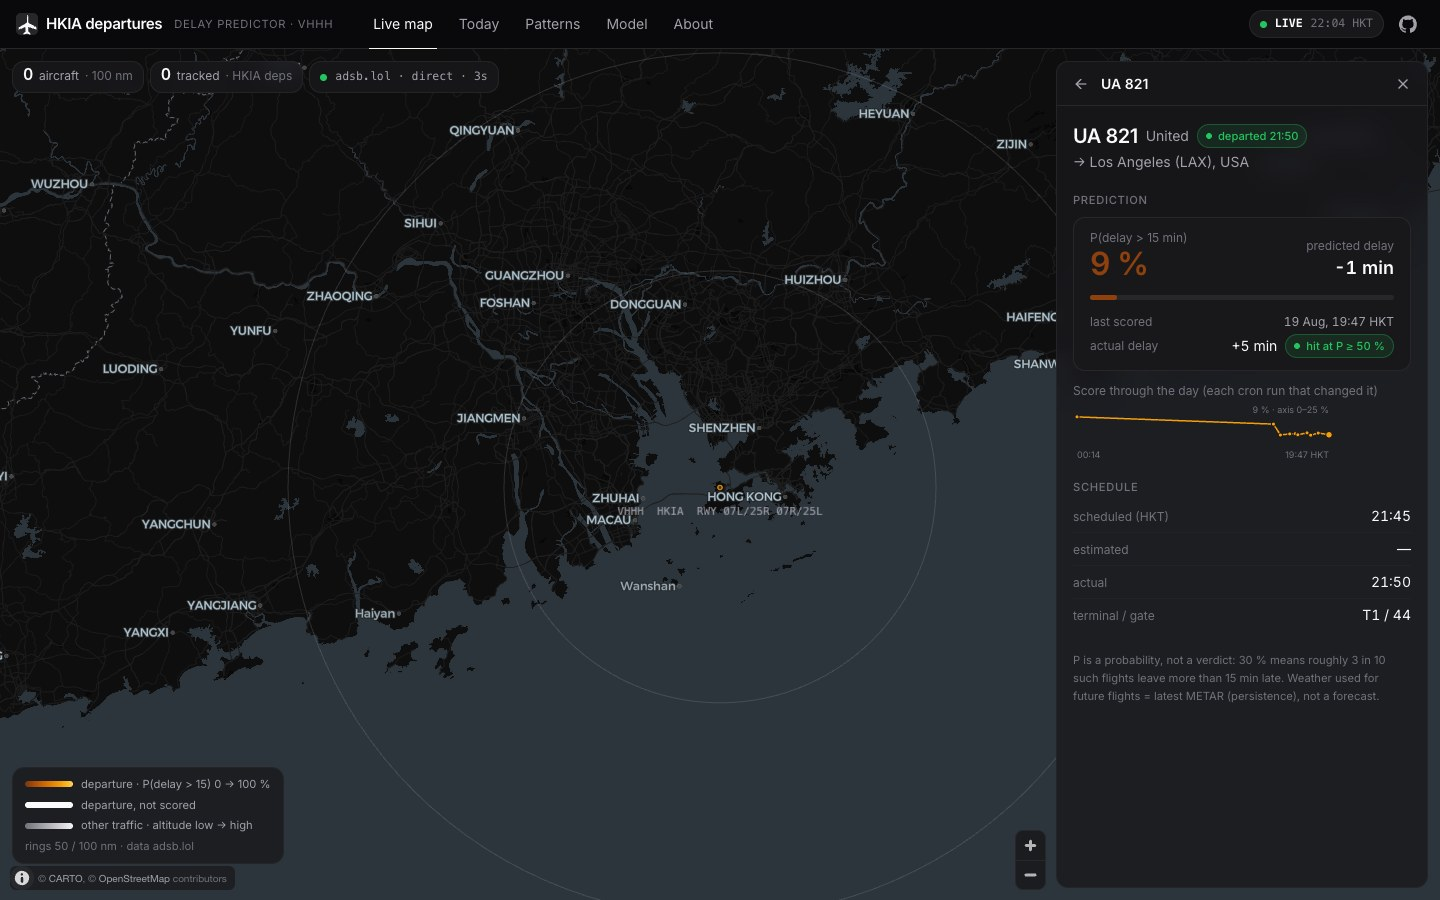
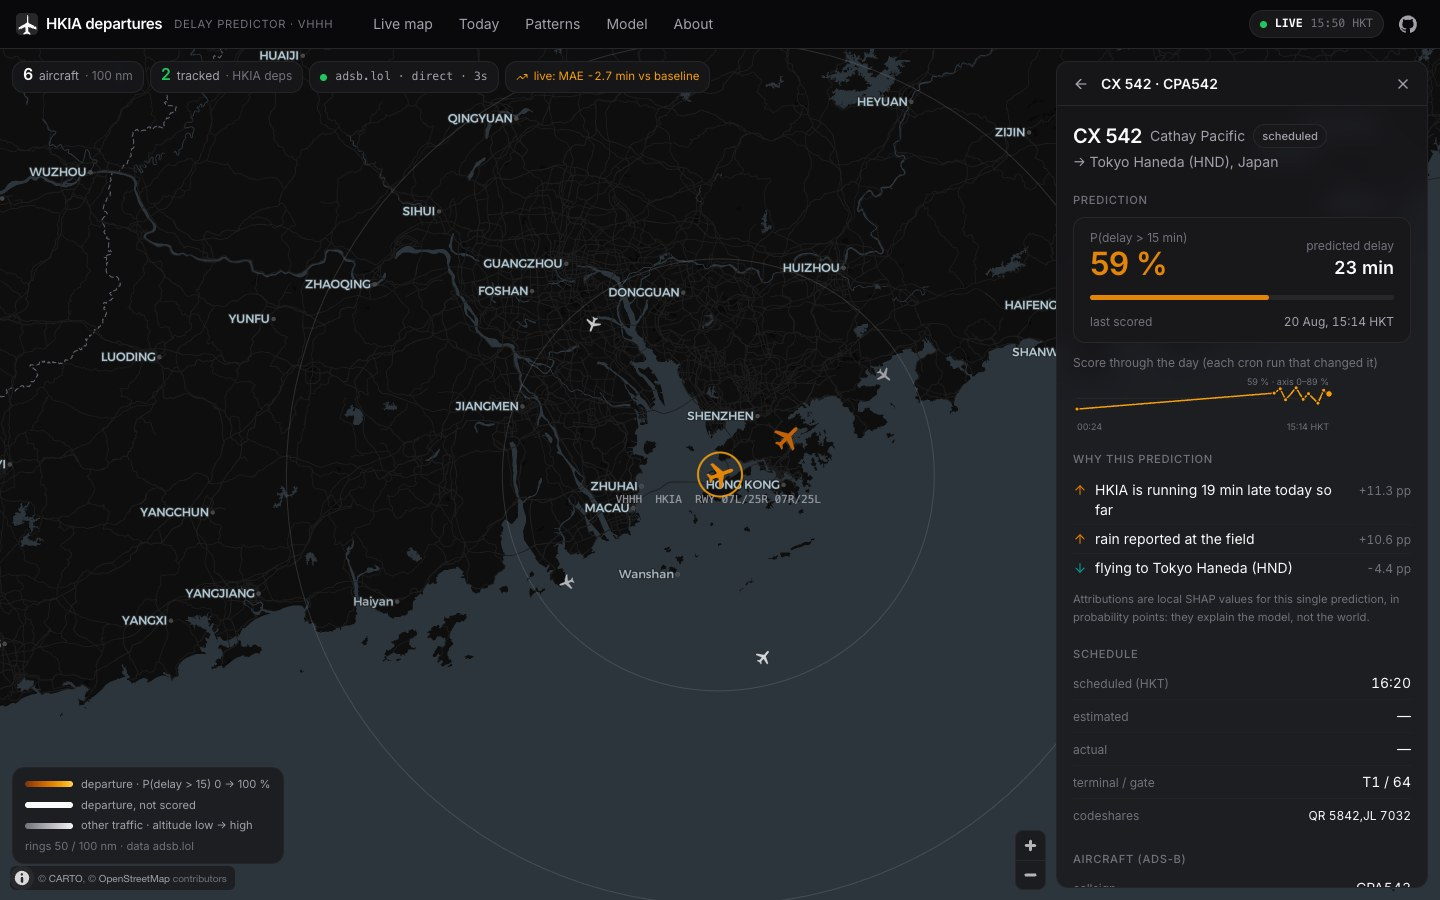
docs: attribution method, the "explains the model not the world" caveat, refreshed screenshot
README section and docs/features.md say what the numbers are (local SHAP, log-odds converted
to probability points by linearising at the flight's own p) and what they are not (not a
causal effect, not a what-if, and the three do not add up to the probability). The same
sentence is in the card footer.

docs/design.md records why the block is three rows and not a bar chart, and that the
direction is never carried by colour alone. Flight-card screenshot re-taken with the block
visible (CX 542 → Haneda: two amber pushes up, one teal push down).

diff --git a/README.md b/README.md
@@ -6,7 +6,7 @@ Predicting departure delays at Hong Kong International Airport from live flight 
 
 - **What**: for each HKIA passenger departure, predict P(delay > 15 min) / expected delay minutes, served on a public dashboard with honest evaluation numbers. v1 = departures only.
 - **Data** (3 sources, all free): Airport Authority flight info API via data.gov.hk (scheduled vs actual departure = label; ~91-day rolling history), Hong Kong Observatory open data (current readings, warnings incl. typhoon signals), METAR for VHHH from aviationweather.gov. OpenSky ADS-B is a deferred stretch.
-- **Architecture** (cron → ingest → predict → db → api / JSON → static site): GitHub Actions every 30 min (`ingest.yml`, $0) runs `src/hkia/ingest_*.py` (flights incl. tomorrow's schedule, HKO readings/warnings, live METAR) into SQLite `data/hkia.db`, then `predict.py` scores every not-yet-departed flight for today + tomorrow with the models in `models/` and appends to table `predictions` (re-scored only when the feature vector changes; history kept), then `export_json.py` writes the JSON snapshots the web app reads. A daily job (`backfill.yml`) runs `backfill_weather.py` (incremental IEM METAR history + HKO typhoon-signal db) and `evaluate.py` (last score before departure vs actual → `reports/live-eval.md`). `features.py` is the single feature builder for training and inference (33 features, point-in-time rolling stats, as-of weather join); `train.py` fits baselines + XGBoost on a date-ordered split → `models/`, `reports/M2-results.md`. `api.py` (FastAPI, read-only over the DB) serves the schedule + latest predictions; `app/streamlit_app.py` (Streamlit) is the public dashboard reading the same DB.
+- **Architecture** (cron → ingest → predict → db → api / JSON → static site): GitHub Actions every 30 min (`ingest.yml`, $0) runs `src/hkia/ingest_*.py` (flights incl. tomorrow's schedule, HKO readings/warnings, live METAR) into SQLite `data/hkia.db`, then `predict.py` scores every not-yet-departed flight for today + tomorrow with the models in `models/` and appends to table `predictions` (re-scored only when the feature vector changes; history kept) plus the top-3 local SHAP attributions to table `explanations` (latest score only, see [Why this prediction](#why-this-prediction--per-flight-explanations)), then `export_json.py` writes the JSON snapshots the web app reads. A daily job (`backfill.yml`) runs `backfill_weather.py` (incremental IEM METAR history + HKO typhoon-signal db) and `evaluate.py` (last score before departure vs actual → `reports/live-eval.md`). `features.py` is the single feature builder for training and inference (33 features, point-in-time rolling stats, as-of weather join); `train.py` fits baselines + XGBoost on a date-ordered split → `models/`, `reports/M2-results.md`. `api.py` (FastAPI, read-only over the DB) serves the schedule + latest predictions; `app/streamlit_app.py` (Streamlit) is the public dashboard reading the same DB.
 - **Headline numbers (test = last 14 days, 2026-08-03..16, 6,252 departures)**: P(delay > 15 min) AUC **0.661** (XGBoost) vs 0.623 (airline x hour baseline) vs 0.50 (global rate); log loss 0.575 / 0.585 / 0.604. Delay-minutes MAE **16.6** vs 18.5 (baseline) vs 17.4 (train median). Airline + destination + time of day explain most; weather adds ~+0.013 AUC; the point-in-time rolling delay features do not help AUC on test. Full tables, calibration and ablations: `reports/M2-results.md`; feature dictionary: `docs/features.md`.
 - **Live numbers (rolling 7 days, 2026-08-17..20, 1,402 matured predictions, 90 % of the 1,562 departures on those dates)**: AUC **0.6635** (model) vs 0.6466 (airline × hour baseline) vs 0.50 (naive); Brier 0.1681 vs 0.1734; log loss 0.5148 vs 0.5271; delay-minutes MAE **14.6** vs 17.4. A paired bootstrap (2,000 resamples) puts only the MAE margin outside its confidence interval — AUC +0.017 [−0.013, +0.049], Brier −0.005 [−0.011, +0.000] and log loss −0.012 [−0.026, +0.002] all straddle zero, so the site reports them and does not claim them. The unflattering slices are on the page too: the model is *behind* the baseline on 2 of the 4 days so far; of all 14 calls published at P ≥ 70 %, 9 were actually late (64 %); and coverage is 90 %, not 100 %, because the cron misses some flights — mostly the ones that departed promptly, which is why the observed late rate here runs above the airport's. Performance by forecast horizon (score → *scheduled* departure, never score → actual, which would slice by the outcome): AUC 0.668 under 30 min out, 0.662 at 30–120 min, and 0.615 on the 286 flights re-scored after their scheduled time. Full breakdown: `reports/live-eval.md` and the report card in both apps.
 - **Recon findings**: see `docs/M0-data-recon.md` (URLs, fields, historical depth, gotchas). Headline: ~450 departures/day, 91 days back → ~40k labelled departures on first backfill.
@@ -98,6 +98,22 @@ one-time setup: [`docs/deploy.md`](docs/deploy.md).
 ![Web app — today](docs/img/web-today.jpg)
 ![Web app — patterns](docs/img/web-patterns.jpg)
 ![Web app — model](docs/img/web-model.jpg)
+
+## Why this prediction — per-flight explanations
+Every scored flight that has not left yet carries the **three features that moved its P(delay > 15) the most**, in both apps' flight
+cards: an arrow (amber up / teal down), one plain-English line, and the size of the push in probability points — e.g. *“operated by
+VietJet (VJC) +19.9 pp · HKIA is running 19 min late today so far +4.3 pp · rain reported at the field +2.2 pp”*. The numbers are
+**local SHAP values taken from XGBoost itself** (`Booster.predict(pred_contribs=True)` — no `shap` dependency, one extra booster call in
+the same scoring pass), which decompose *this one* prediction exactly: bias + contributions = the margin, and `sigmoid` of that is the
+published probability. They come out in log-odds; the card shows probability points, converted by linearising at the flight's own p
+(`pp = 100 · c · p · (1 − p)`), which is a first-order approximation — readable, but the three numbers do not add up to the probability.
+Ranking is always done on the exact log-odds. **The honest caveat, which the card and this README both state: an attribution explains
+the model, not the world.** It says how this model's output moves when a feature is included given everything else on the row — not that
+the rain caused the delay, and not what would happen if the weather changed. One hand-written template per feature lives in
+[`src/hkia/explain.py`](src/hkia/explain.py) (all 33 covered, asserted against `docs/features.md` in `tests/test_explain.py`); the top-3
+is stored in table `explanations` — **latest score only**, replaced in place and pruned to a 3-day window, so unlike `predictions` it does
+not grow with the scoring history (~100 bytes/flight, ~65 KB in the DB) — and published as a compact `why` array in
+`departures_*.json` (+85 KB across the three files).
 
 ## Known limitations
 - Live scoring uses the **latest METAR observation** as the weather for every future flight (persistence, `metar_age_min` capped at 3 h) — not a forecast; TAF is a stretch. Rolling delay features for future flights only see flights that have departed as of scoring time, a slightly narrower history than at training time.

diff --git a/docs/features.md b/docs/features.md
@@ -75,3 +75,20 @@ scoring ahead of time: (1) rows scheduled after "now" get the latest METAR obser
 `metar_age_min` capped at 180; (2) the rolling delay features only see flights that have already departed as of scoring time, which for a
 flight several hours out is fewer than the training-time cutoff of scheduled − 2 h. Predictions are appended to `predictions`
 (`features_hash` = md5 of the feature vector; a flight is re-scored only when it changes) and evaluated by `hkia.evaluate`.
+
+## Per-flight explanations (`hkia.explain`)
+The same scoring pass asks the booster for local SHAP values (`Booster.predict(..., pred_contribs=True)`, one contribution per feature
+plus a bias term, in log-odds, summing exactly to the margin) and keeps the **top 3 by |contribution|** for each flight.
+
+- **Units.** The apps show probability points, linearised at the flight's own prediction: `pp = 100 · c · p · (1 − p)`. First-order
+  approximation — the three numbers do not add up to `p − p_base`; the exact log-odds value is stored and is what the ranking uses.
+- **Text.** One hand-written template per feature in `hkia.explain.TEMPLATES` (every name in the table above has one; a missing value
+  gets its own line from `MISSING`, e.g. `ceiling_ft` → "no cloud ceiling reported"). `tests/test_explain.py` asserts the coverage
+  against this file, so a new feature must arrive with its template.
+- **Storage.** Table `explanations` — `PRIMARY KEY (date, flight_no, scheduled_ts)`, i.e. **the latest score only**, `INSERT OR
+  REPLACE`d on every re-score and pruned to `today − 1 … tomorrow` (`hkia.explain.KEEP_DAYS`). It stores `[[feature, value,
+  logodds], …]`, not the rendered sentence, so editing a template changes what the apps show without re-scoring anything.
+- **Publication.** `hkia.export_json` renders the templates and adds `"why": [[direction, one-liner, pp], …]` to each **not-yet-departed**
+  flight of `departures_*.json` (direction is `+1` when the feature pushed P up). Older snapshots simply have no `why` key; both
+  frontends render an empty state.
+- **What it is not.** A SHAP value describes this model's output, not the world: it is not a causal effect and not a what-if.

diff --git a/docs/design.md b/docs/design.md
@@ -51,6 +51,11 @@ No blue chrome anywhere; links are `ink` with a `border-2` underline.
   line skips them, so three coin flips cannot read as a trend; thin AUC slices keep their bar but are labelled `thin` with their `n`.
   Every report-card chart carries `role="img"` + an `aria-label` that reads out its numbers, because the values otherwise exist only in
   a mouse-only tooltip.
+- **"Why this prediction"** (flight card, `web/src/components/FlightCard.tsx: WhyBlock`; Streamlit twin `app/theme.py: why_lines`): three rows,
+  each an arrow + one plain-English line + the push in probability points. `SERIES_1` amber = pushed P(delay > 15) **up**, `SERIES_2` teal =
+  pushed it **down** — the same two-series meaning as the report card, and the direction is carried by the arrow glyph, the signed number and a
+  visually-hidden "raises/lowers the probability", never by the colour alone. No bar chart: three signed numbers do not need axes, and a
+  SHAP bar chart invites reading the three as if they summed to the probability, which they do not.
 - `NEUTRAL #52525b` for reference lines (perfect-calibration diagonal, P = 0.5 line). Grid `#27272a` solid hairline, no dashes. One axis
   per chart; legends for ≥ 2 series; `TipBox` tooltip on every mark; text always in text tokens.
 - Map: other traffic zinc-500 → zinc-100 by altitude, tracked-not-scored zinc-50, tracked-scored amber ramp, hover ring zinc-50, selected
